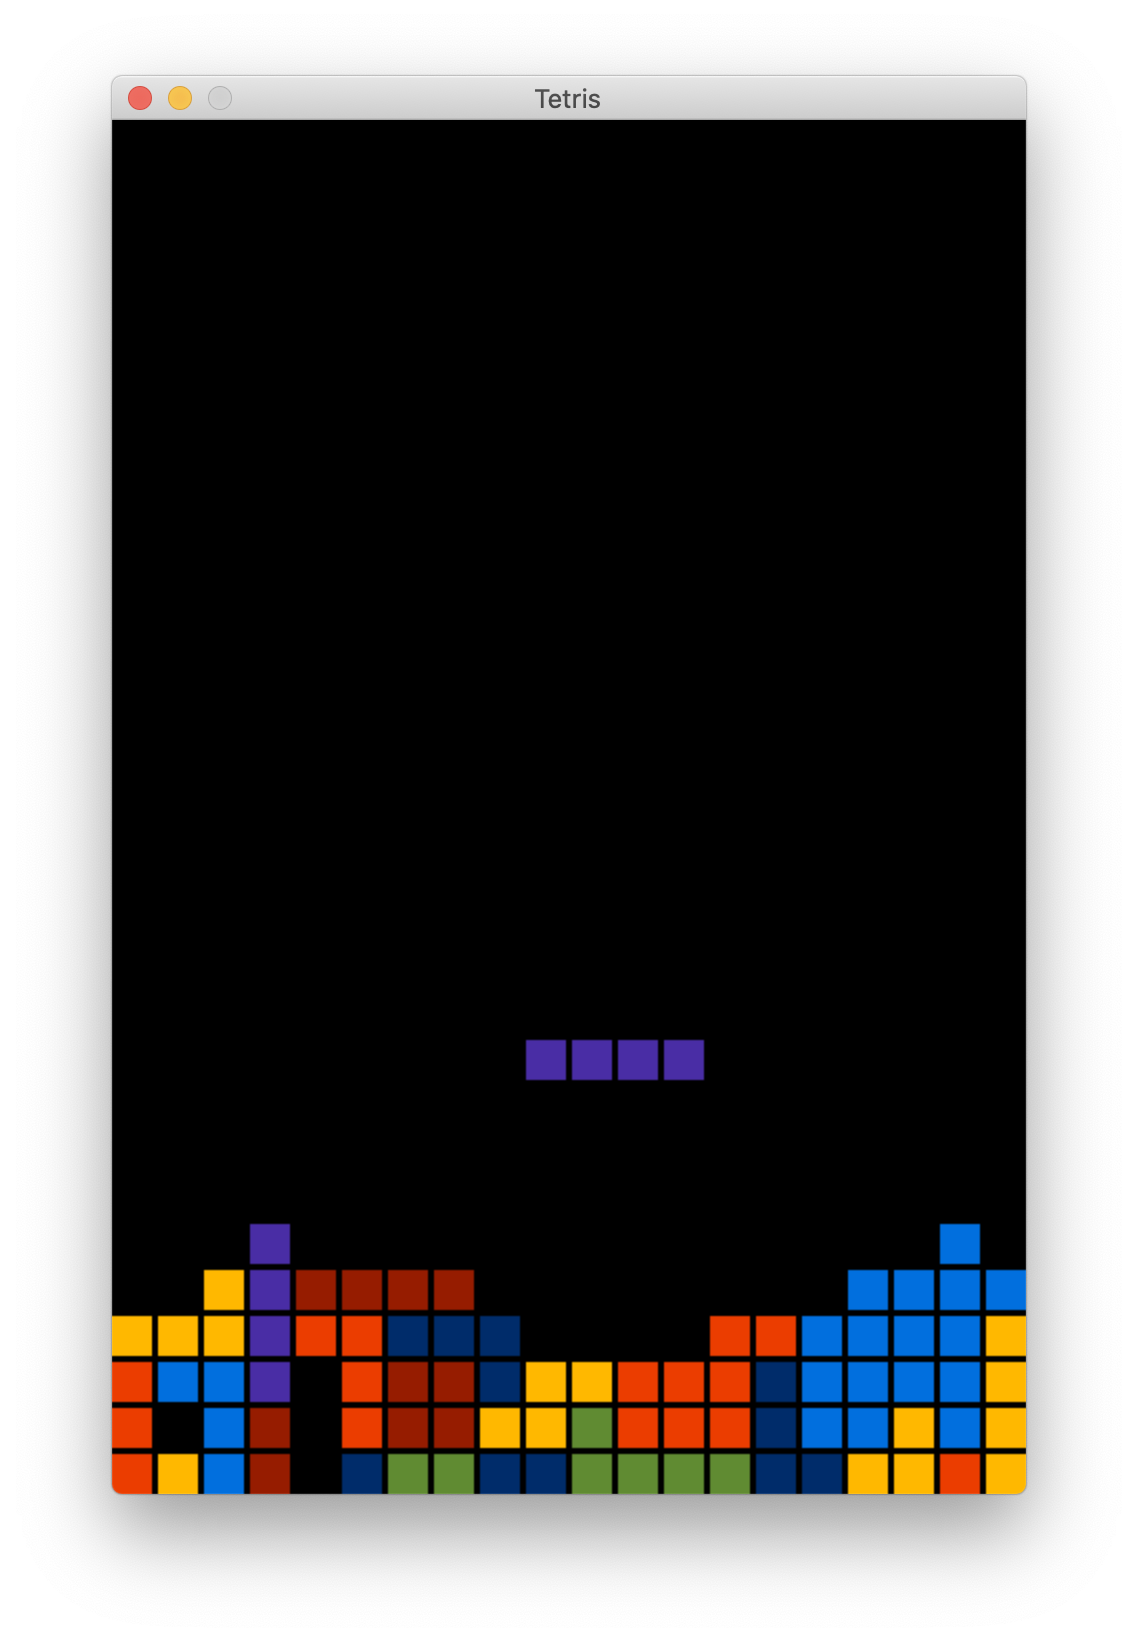
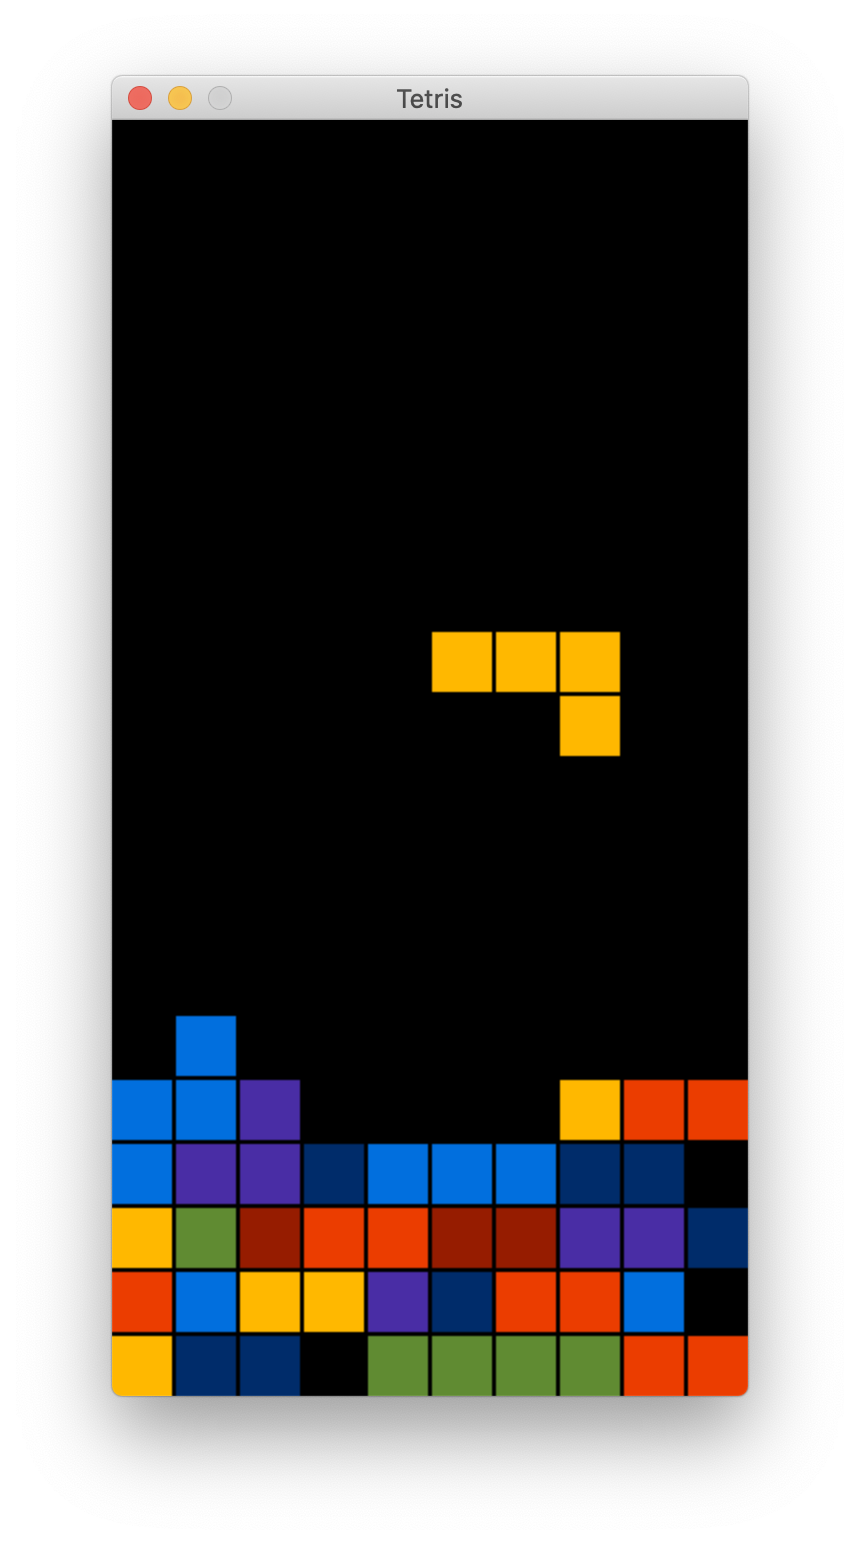
Prevents rotation from exceeding board, changes dimensions, updates screenshot.

Changed region(s): [[0.0907, 0.0311, 0.907, 0.9326], [0.4837, 0.4041, 0.7256, 0.4974], [0.4535, 0.6218, 0.6349, 0.6839]]

diff --git a/main.c b/main.c
@@ -7,10 +7,10 @@
 #define NELEM(a) ((sizeof(a)/sizeof(a[0])))
 
 enum {
-    BLOCK_SIZE = 20, /* Side of block */
-    BLOCK_PADDING = 3, /* Spacing between blocks */
-    NXBLOCKS = 20,
-    NYBLOCKS = 30,
+    BLOCK_SIZE = 30, /* Side of block */
+    BLOCK_PADDING = 2, /* Spacing between blocks */
+    NXBLOCKS = 10,
+    NYBLOCKS = 20,
     MAX_WIDTH = NXBLOCKS * BLOCK_SIZE + (NXBLOCKS-1) * BLOCK_PADDING, /* Width of game window */
     MAX_HEIGHT = NYBLOCKS * BLOCK_SIZE + (NYBLOCKS-1) * BLOCK_PADDING, /* Height of game window */
     FALL_SPEED = 2,
@@ -35,35 +35,10 @@ min(int a, int b)
     return (a < b) ? a : b;
 }
 
-/* Rotate a tetramino 90 degrees counter-clockwise. */
-static void
-rotate(SDL_Point tetra[4])
+static int
+max(int a, int b)
 {
-    int i;
-    int x;
-    int y;
-    int minx;
-    int miny;
-
-    /* Rotate blocks and record bottom-left-most block position. */
-    for (i = 0; i < 4; ++i) {
-        x = -tetra[i].y;
-        y = tetra[i].x;
-        if (i == 0) {
-            minx = x;
-            miny = y;
-        } else {
-            minx = min(minx, x);
-            miny = min(miny, y);
-        }
-        tetra[i].x = x;
-        tetra[i].y = y;
-    }
-    /* Shift tetramino so bottom-left block is at (0,0). */
-    /* for (i = 0; i < 4; ++i) { */
-    /*     tetra[i].x -= minx; */
-    /*     tetra[i].y -= miny; */
-    /* } */
+    return (a > b) ? a : b;
 }
 
 static SDL_Point tetras[][4] = {
@@ -114,6 +89,7 @@ struct Game {
 };
 typedef struct Game Game;
 
+static void rotate(Game *g);
 static int collidesp(Game *g, int dx, int dy);
 static int clear(SDL_Renderer *r);
 static int draw(SDL_Renderer *r, Game *g);
@@ -176,7 +152,7 @@ main(void)
                         g.p.y += 1;
                     break;
                 case SDLK_UP:
-                    rotate(g.tetra);
+                    rotate(&g);
                     break;
                 case SDLK_LEFT:
                     if (!collidesp(&g, -1, 0))
@@ -254,6 +230,41 @@ clear(SDL_Renderer *r)
     if (rc != 0)
         return rc;
     return 0;
+}
+
+/* Rotate a tetramino 90 degrees counter-clockwise. */
+static void
+rotate(Game *g)
+{
+    int i;
+    int x;
+    int y;
+    int minx;
+    int maxx;
+
+    assert(g != NULL);
+
+    /* Rotate blocks and record bottom-left-most block position. */
+    for (i = 0; i < 4; ++i) {
+        x = -g->tetra[i].y;
+        y = g->tetra[i].x;
+        if (i == 0) {
+            minx = maxx = x;
+            /* miny = g->p.y + g->p.y + y; */
+        } else {
+            minx = min(minx, x);
+            maxx = max(maxx, x);
+            /* miny = min(miny, g->o.y + g->p.y + y); */
+        }
+        g->tetra[i].x = x;
+        g->tetra[i].y = y;
+    }
+    if (g->p.x + minx < 0) {
+        /* g->p.x + minx < 0 */
+        g->p.x = -minx;
+    } else if (NXBLOCKS <= g->p.x + maxx) {
+        g->p.x = NXBLOCKS - maxx - 1;
+    }
 }
 
 static int
@@ -349,7 +360,7 @@ reset(Game *g)
     /* Set score */
     SDL_Log("Resetting the score");
     g->score = 0;
-    g->speed = 1;
+    g->speed = FALL_SPEED;
 }
 
 static void
